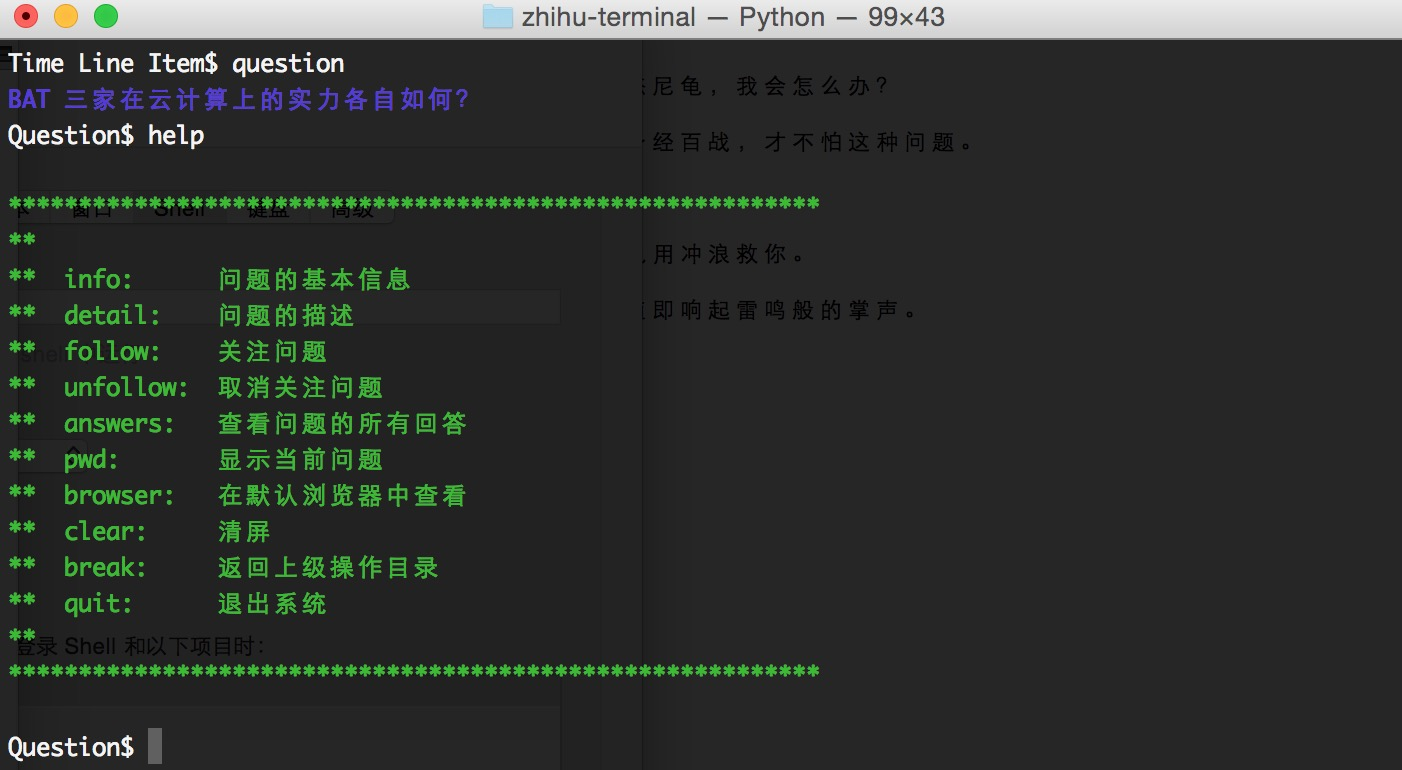
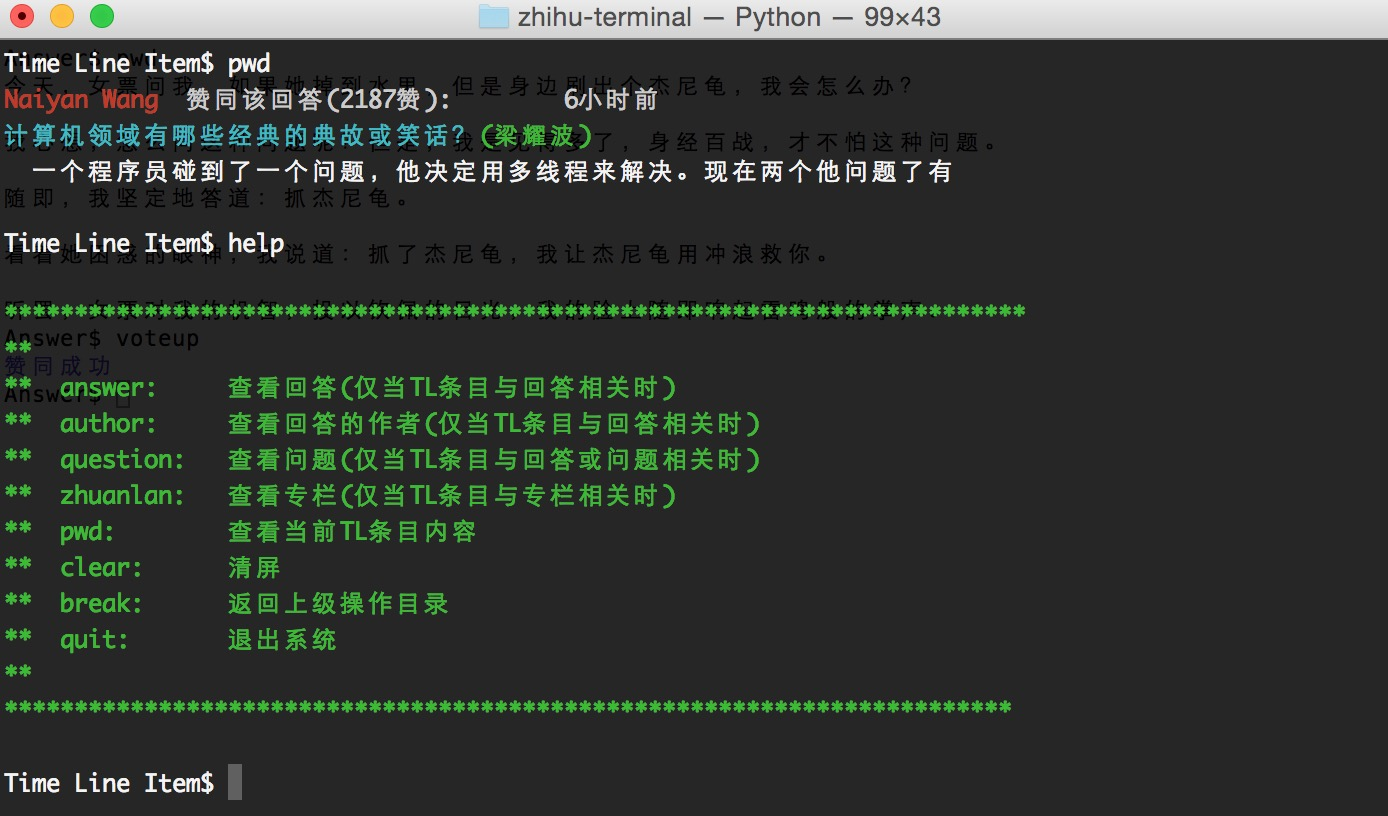
readme

Changed region(s): [[0.0, 0.0, 1.0, 0.9039], [0.0, 0.9351, 0.1859, 0.9974]]

diff --git a/README.md b/README.md
@@ -9,11 +9,11 @@ zhihu-terminal：终端版知乎
 
 ##介绍
 
-zhihu-terminal 采用 python2.7编写，通过在命令行中执行python程序运行知乎客户端，就可以用类似bash命令的方式来给别人点赞啦。
-
-感觉可以去回答在"命令行里刷知乎是怎样一种体验"了。
+zhihu-terminal 采用 python2.7编写，通过在命令行中执行python程序运行知乎客户端，就可以用类似bash命令的方式来刷TL、来关注问题和给别人点赞啦。
 
 更重要的是以后在实验开着命令行就不会被老板和同学发现我是在刷知乎了哦。。
+
+花式刷知乎也别有一番乐趣的嘛。
 
 本项目部分代码参考借鉴项目：[zhihu-python](<https://github.com/egrcc/zhihu-python>) , 感谢@[egrcc](https://github.com/egrcc)的分享。
 
